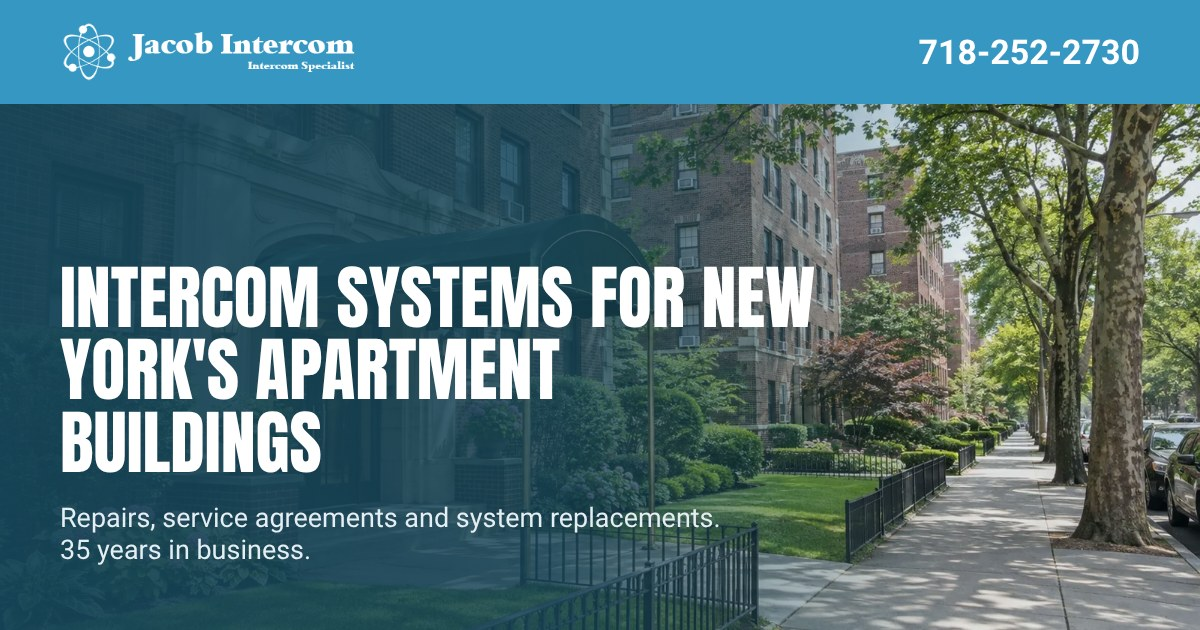
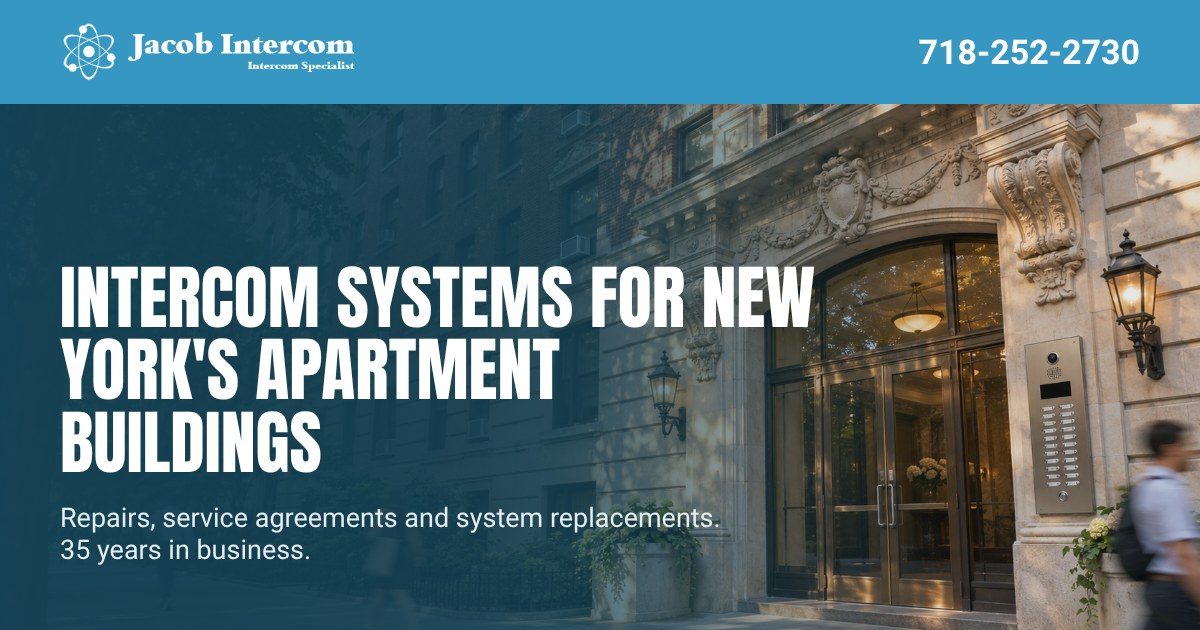
New hero building photo for home page and link preview; replace Brooklyn brownstone photo
Claude-Session: https://claude.ai/code/session_01SsanSmoqgPEBddTjqe93Uq

diff --git a/assets/site.css b/assets/site.css
@@ -340,7 +340,7 @@ form.card textarea{resize:vertical}
 .prose .panel{margin:28px 0}
 .prose .panel-head h2{margin-top:0;font-family:var(--body);text-transform:none;letter-spacing:0;font-size:1.2rem;color:var(--ink)}
 @media (max-width:860px){
-  .home-hero{background:linear-gradient(180deg,rgba(21,68,88,.35) 0%,rgba(21,68,88,.93) 55%),var(--hero) center/cover;min-height:620px}
+  .home-hero{background:linear-gradient(180deg,rgba(21,68,88,.3) 0%,rgba(21,68,88,.93) 55%),var(--hero) 72% center/cover;min-height:620px}
   .home-proof .wrap{grid-template-columns:repeat(2,minmax(0,1fr))}
   .home-proof div{padding:22px 8px}
   .home-proof div:nth-child(3){border-left:0}

diff --git a/content.py b/content.py
@@ -37,7 +37,7 @@ def symptom(path, nav, title, desc, h1, lead, notice, causes, checks, fix, cost,
 # ───────────────────────────── Home ─────────────────────────────
 
 HOME = """
-<section class="home-hero" style="--hero:url('{{a:img/shot-11.webp}}')"><div class="wrap">
+<section class="home-hero" style="--hero:url('{{a:img/hero-building.webp}}')"><div class="wrap">
 <h1>Intercom systems for New York's apartment buildings</h1>
 <p>Repairs, service agreements and full system replacements for property managers, management companies and supers. 35 years. Buildings of 10 to 200+ apartments.</p>
 <div class="btn-row"><a class="btn btn-brass" href="#quote">Request a building survey</a><a class="btn btn-ghost" href="tel:+17182522730">Call 718-252-2730</a></div>

diff --git a/build.py b/build.py
@@ -27,7 +27,7 @@ NAV = [("intercom-repair/", "Repair"), ("intercom-maintenance-contract/", "Servi
        ("projects/", "Projects"), ("about/", "About"), ("contact/", "Contact")]
 BUILT = {p["path"] for p in PAGES}
 SHOTS = {
-    1: "Brooklyn brownstone entrance with an intercom panel beside the door",
+    1: "Pre-war apartment building entrance with a stainless steel intercom panel beside the doors",
     2: "Hand pressing a button on a brass apartment buzzer panel",
     3: "Pre-war apartment lobby with brass mailboxes and an intercom panel",
     4: "Gloved hands testing the wiring inside an open intercom entry panel",
